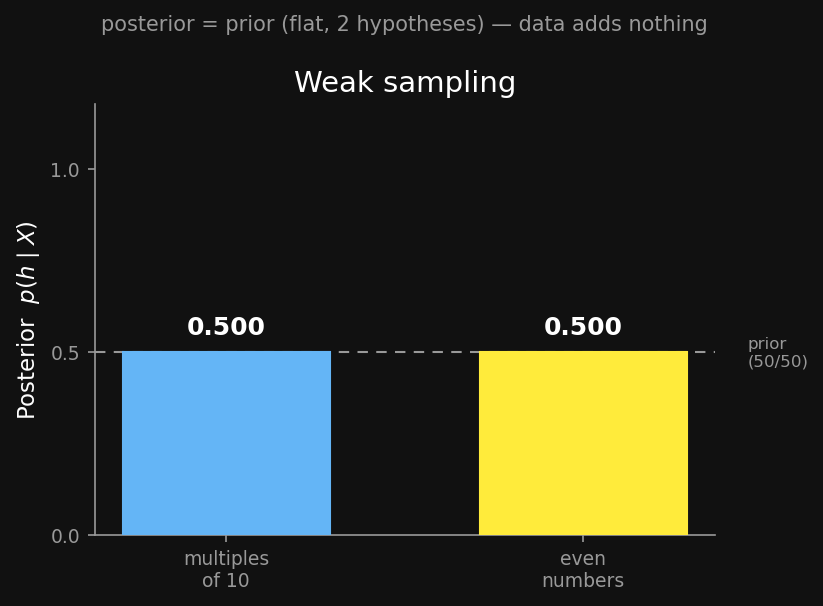
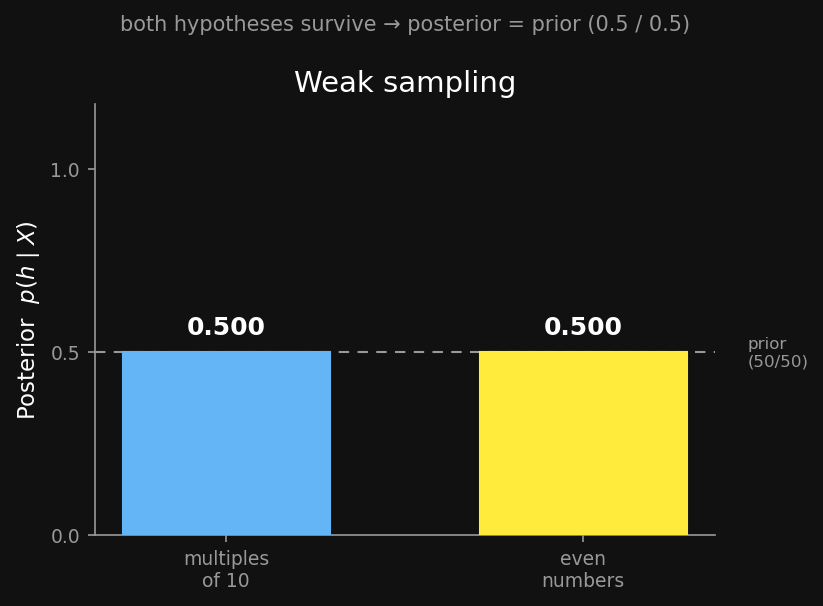
Week 4: make the weak-sampling slide precise — eliminate vs. rank
The slide titled "the data never moves you" overstated weak sampling. Weak
sampling DOES move the posterior — a datum that falls outside a hypothesis
gives it likelihood 0 and rules it out. What it cannot do is RANK the
hypotheses that all still contain the data: every survivor keeps likelihood
1, so the posterior over the survivors is the renormalised prior.

In this example both hypotheses contain every example, so nothing is
eliminated and the posterior sits at 0.5/0.5 — but that flatness is specific
to "nothing ruled out here", not a universal property of weak sampling.

- Title: "Weak sampling — eliminate, but don't rank".
- Body restructured as "What it can do" (rule out) / "What it can't do"
  (rank survivors), then the worked 0.5/0.5 for this no-elimination case.
- Figure subtitle: "both hypotheses survive -> posterior = prior" (was the
  misleading "data adds nothing").
- weak_posterior() docstring and the shared-outline corrected to match.

Changed region(s): [[0.1215, 0.0297, 0.8809, 0.0594]]

diff --git a/scripts/build_suspicious_coincidence_plot.py b/scripts/build_suspicious_coincidence_plot.py
@@ -54,14 +54,17 @@ def strong_posterior(n: int) -> tuple[float, float]:
 
 
 def weak_posterior() -> tuple[float, float]:
-    """Posterior under weak sampling: the likelihood is 1 for every hypothesis
-    that contains the data, so the posterior is just the renormalised prior
-    over the surviving hypotheses — independent of n AND of |h|.
+    """Posterior under weak sampling for THIS example (both hypotheses contain
+    every example). The weak-sampling likelihood is 1 for any hypothesis that
+    contains the data and 0 otherwise. Weak sampling therefore CAN move the
+    posterior — by eliminating any hypothesis a datum falls outside of — but it
+    cannot rank the hypotheses that all still contain the data: every survivor
+    keeps likelihood 1, so the posterior over the survivors is the renormalised
+    prior, independent of n and of |h|.
 
-    With this 2-hypothesis space and a flat prior that renormalised prior is
-    0.5 / 0.5. The value 0.5 is therefore an artefact of (a) two hypotheses
-    and (b) a flat prior — NOT a property of weak sampling itself. The robust
-    statement is: under weak sampling the posterior never moves off the prior.
+    Here nothing is ruled out, so the posterior over the two survivors is the
+    flat prior, 0.5 / 0.5. The 0.5 is an artefact of (a) two surviving
+    hypotheses and (b) a flat prior — not a property of weak sampling itself.
     """
     return PRIOR, PRIOR
 
@@ -123,10 +126,11 @@ def main() -> None:
                    "X = {60, 80, 10, 30}   ·   four examples",
                    "suspicious_strong_4")
 
-    # weak sampling — posterior reverts to the flat prior, regardless of data
+    # weak sampling — nothing ruled out here, so the posterior over the two
+    # surviving hypotheses stays at the flat prior
     p10, pE = weak_posterior()
     plot_posterior(p10, pE, "Weak sampling",
-                   "posterior = prior (flat, 2 hypotheses) — data adds nothing",
+                   "both hypotheses survive → posterior = prior (0.5 / 0.5)",
                    "suspicious_weak")
     print("Done.")
 

diff --git a/course/week04_generalization_hier_bayes/week4-shared-outline.md b/course/week04_generalization_hier_bayes/week4-shared-outline.md
@@ -128,7 +128,7 @@ Sequencing decision (confirmed with Prof. Austerweil):
   - *From likelihood to posterior* — bridge: state the 2-hypothesis model, flat prior, Bayes' rule.
   - *Strong sampling, $X=\{60\}$* — posterior $\approx 0.83 / 0.17$ (5:1 likelihood ratio). Graded.
   - *Strong sampling, $X=\{60,80,10,30\}$* — posterior $\approx 0.998 / 0.002$ ($5^4 = 625{:}1$). Rule-like; the suspicious coincidence made quantitative.
-  - *Weak sampling* — likelihood is $1$/$0$ (size-blind), so the posterior **reverts to the prior**: $0.5/0.5$ here. Emphasize the $0.5$ is an artefact of *two hypotheses + flat prior*, not a property of weak sampling — the robust point is the posterior never leaves the prior, so weak sampling cannot explain the number game. Figures: `scripts/build_suspicious_coincidence_plot.py` → `images/suspicious_strong_1.png`, `suspicious_strong_4.png`, `suspicious_weak.png`.
+  - *Weak sampling — eliminate, but don't rank* — likelihood is $1$/$0$ (size-blind). Be precise: weak sampling **can** move the posterior, by **ruling out** any hypothesis a datum falls outside of (likelihood $0$). What it **can't** do is *rank* the hypotheses that all still contain the data — every survivor keeps likelihood $1$, so the posterior over the survivors is the renormalised prior. In this example both hypotheses contain every example, nothing is eliminated, so the posterior sits at $0.5/0.5$ (and the $0.5$ is an artefact of *two surviving hypotheses + flat prior*). The teaching point: weak sampling can eliminate but cannot *prefer the smaller* hypothesis, so it cannot produce the suspicious-coincidence effect — that needs strong sampling. Figures: `scripts/build_suspicious_coincidence_plot.py` → `images/suspicious_strong_1.png`, `suspicious_strong_4.png`, `suspicious_weak.png`.
 - Tie back: same equation as the rectangle game, $\mathcal H$ now discrete. Both phenomena (graded vs. rule-like) fall out of the posterior — no extra mechanism.
 
 ### Block 7: Bridge → Shohei's paper (2 min)
